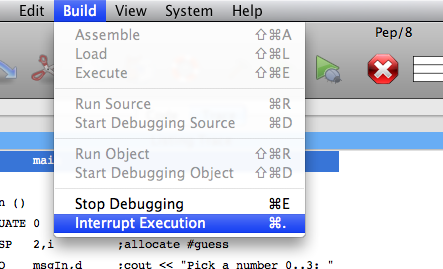
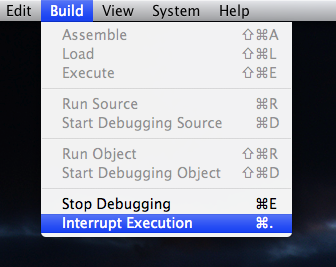
Bunch of changed screenshots (cleanup, but we may want to crop them down a bit - they're a bit tall, but they show the menu better).
We should probably crop later, when we get our Windows screenshots in
there.

git-svn-id: http://pep8-1.googlecode.com/svn/trunk@266 0efa5a84-20a4-11de-9909-f37ff7dbbc12

diff --git a/help/assemblylanguage.html b/help/assemblylanguage.html
@@ -38,6 +38,7 @@ After writing the assembly language program, assemble it by selecting Build->Ass
 or clicking on the hammer icon in the tool bar.
 <p>
 <img src="qrc:/help/images/assemblylanguage03.png" alt="assemblylanguage03" hspace=10 vspace=10>
+<img src="qrc:/help/images/assemblylanguage03b.png" alt="assemblylanguage03b" hspace=10 vspace=10>
 <p>
 If there are no errors, the translated program will appear in the Object Code pane,
 and a formatted listing will appear in the Assembler Listing pane.
@@ -89,6 +90,6 @@ The three steps -- Assemble, Load, Execute -- are combined in the single option 
 You can initiate a run by selecting Build->Run from the menu or by clicking on the Run icon in the tool bar.
 <p>
 <img src="qrc:/help/images/assemblylanguage10.png" alt="assemblylanguage10" hspace=10 vspace=10>
-
+<img src="qrc:/help/images/assemblylanguage10b.png" alt="assemblylanguage10b" hspace=10 vspace=10>
 </body>
 </html>
